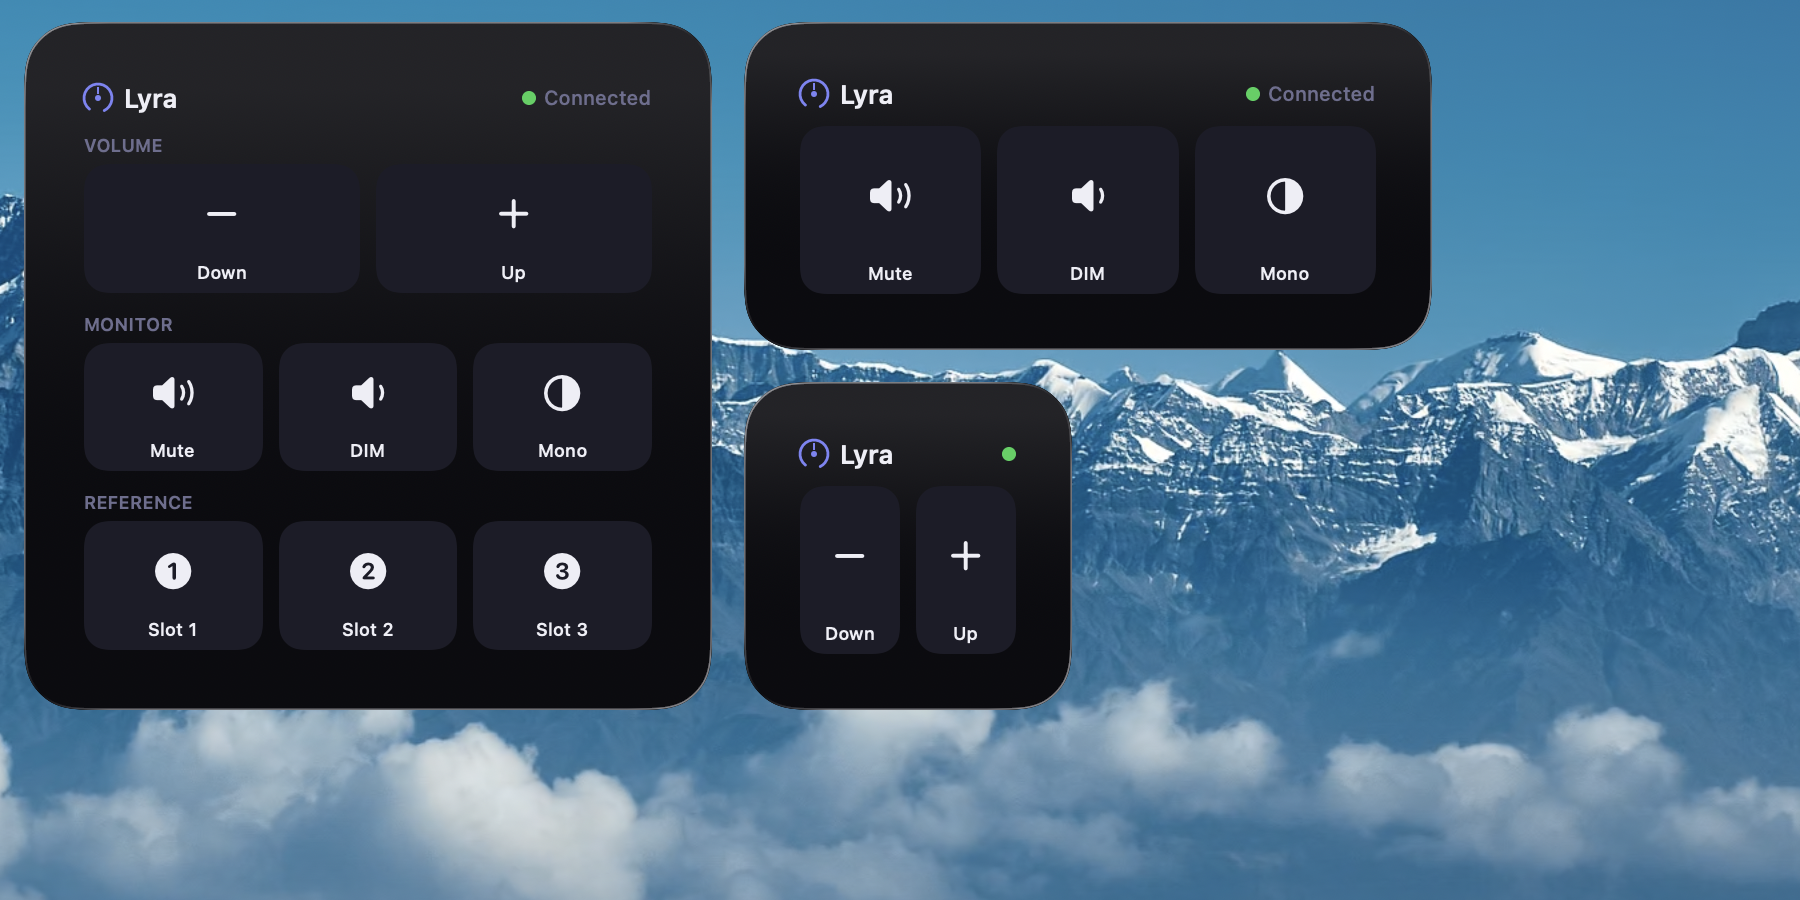
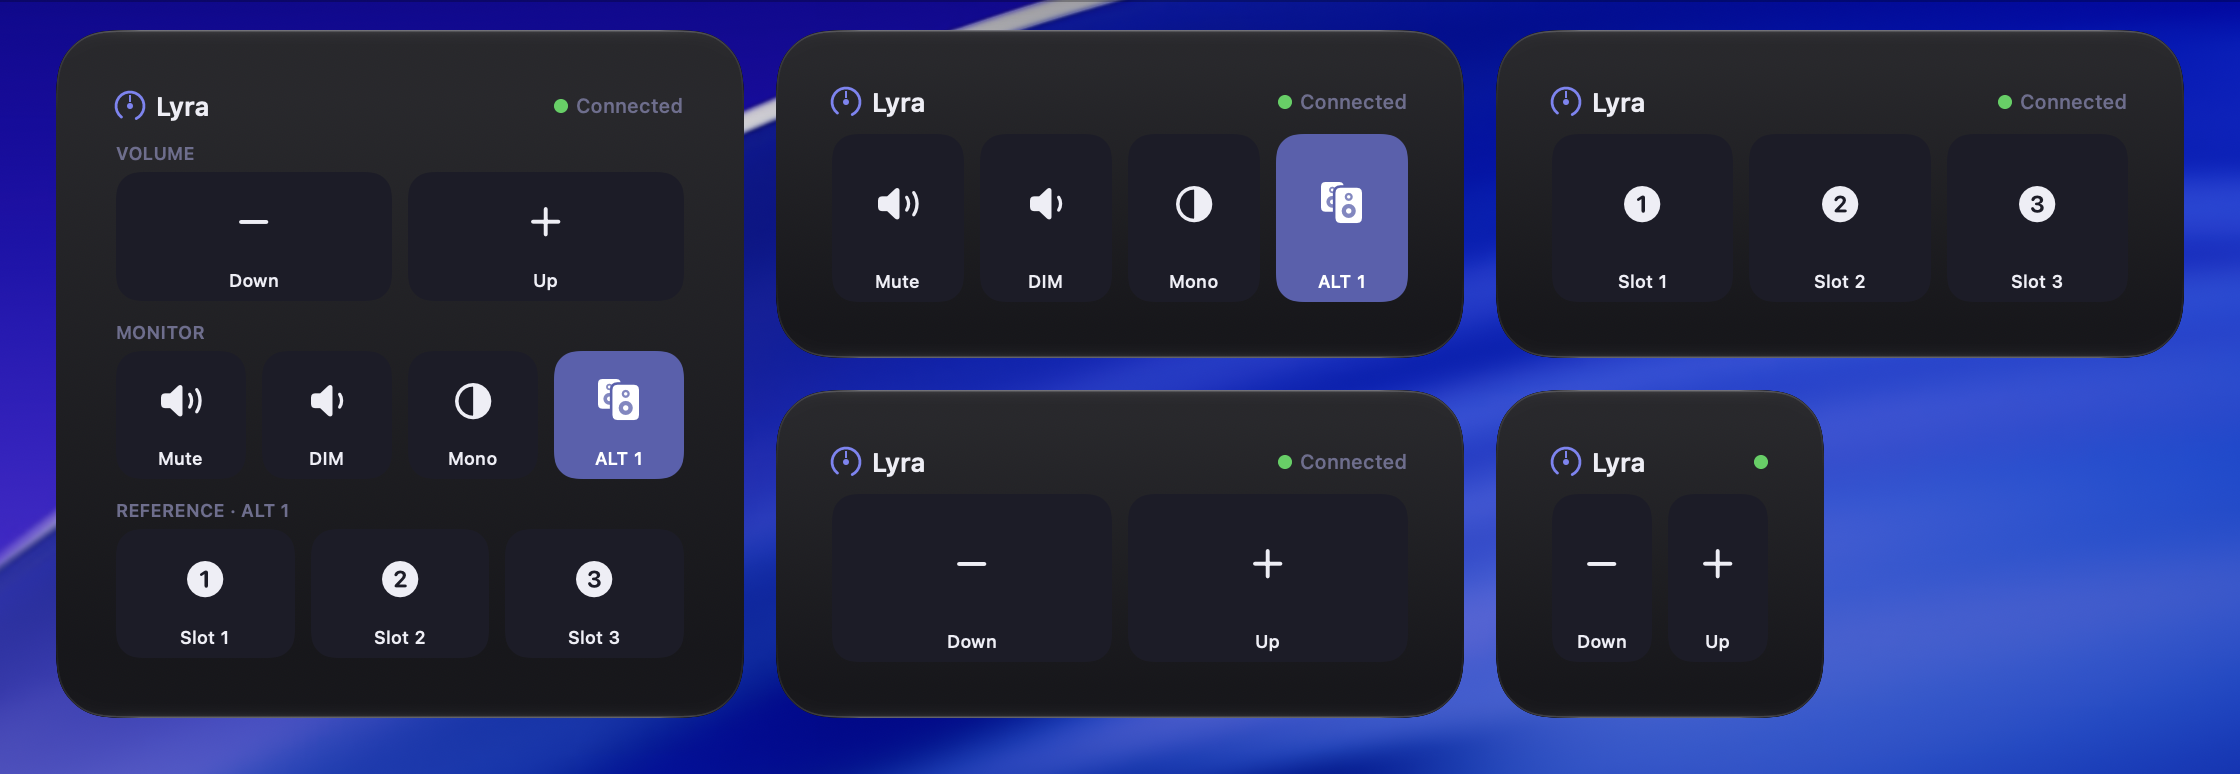
lyra: widgets and Settings screenshots for 2.0
lyra-widgets.png: all five widgets in full colour with ALT 1 on, so the
Speakers button shows active on Monitor Toggles and Control Panel.
settings-window.png: the Interface section and the new automation
wording, from the build without the focus ring. Guide alt text updated;
placeholders removed.

Claude-Session: https://claude.ai/code/session_01LxhmfXkEYbmFLD3JwmqshQ

diff --git a/lyra/guide.html b/lyra/guide.html
@@ -980,8 +980,7 @@ open "lyra://mute/toggle"</code></pre>
 
         <p class="prose">Lyra ships four interactive widgets in the macOS widget gallery (v1.6+). Open <strong>Notification Centre</strong> (click the date/time, or swipe right with two fingers from the right edge of the trackpad), scroll to the bottom, click <strong>Edit Widgets</strong>, and search for <strong>Lyra</strong>.</p>
 
-        <!-- SCREENSHOT: lyra-widgets (re-shoot for 2.0: Speakers button on Monitor Toggles and Control Panel) -->
-        <img src="lyra-widgets.png" alt="Lyra's widgets on the macOS desktop - the large Control Panel (volume, Mute/DIM/Mono, reference slots 1-3), the Monitor Toggles widget, and the Volume widget, each under a Lyra header with a green connection dot" class="screenshot-full">
+        <img src="lyra-widgets.png" alt="Lyra's five widgets on the macOS desktop - the large Control Panel (volume, Mute / DIM / Mono / Speakers, reference slots for the pair playing), Monitor Toggles with the Speakers button on ALT 1, Reference Levels, and the medium and small Volume widgets" class="screenshot-full">
         <p class="screenshot-caption">Lyra's widgets on the desktop - the Control Panel (left), plus the Monitor Toggles and Volume widgets.</p>
 
         <table>
@@ -1043,8 +1042,7 @@ open "lyra://mute/toggle"</code></pre>
 
         <p class="prose">Open with <kbd>Cmd+,</kbd> or <strong>Settings…</strong> in the menu. Three sections.</p>
 
-        <img src="settings-window.png" alt="Lyra's Settings window: an Automation section with the auto-start and auto-quit toggles plus their paired notification sub-toggles, and a General section with the volume HUD toggle, the HUD style popup set to System style, and the volume step slider" class="screenshot-full">
-        <!-- SCREENSHOT: settings-window (re-shoot for 2.0: Interface section on top, new automation wording; update the alt text with it) -->
+        <img src="settings-window.png" alt="Lyra's Settings window: an Interface section with the interface popup set to Apollo Twin X, an Automation section with the auto-start and auto-quit toggles for UA background apps plus their notification sub-toggles, and a General section with the volume HUD toggle, the HUD style popup set to System style, and the volume step slider" class="screenshot-full">
 
         <h3>Interface</h3>
         <ul>
